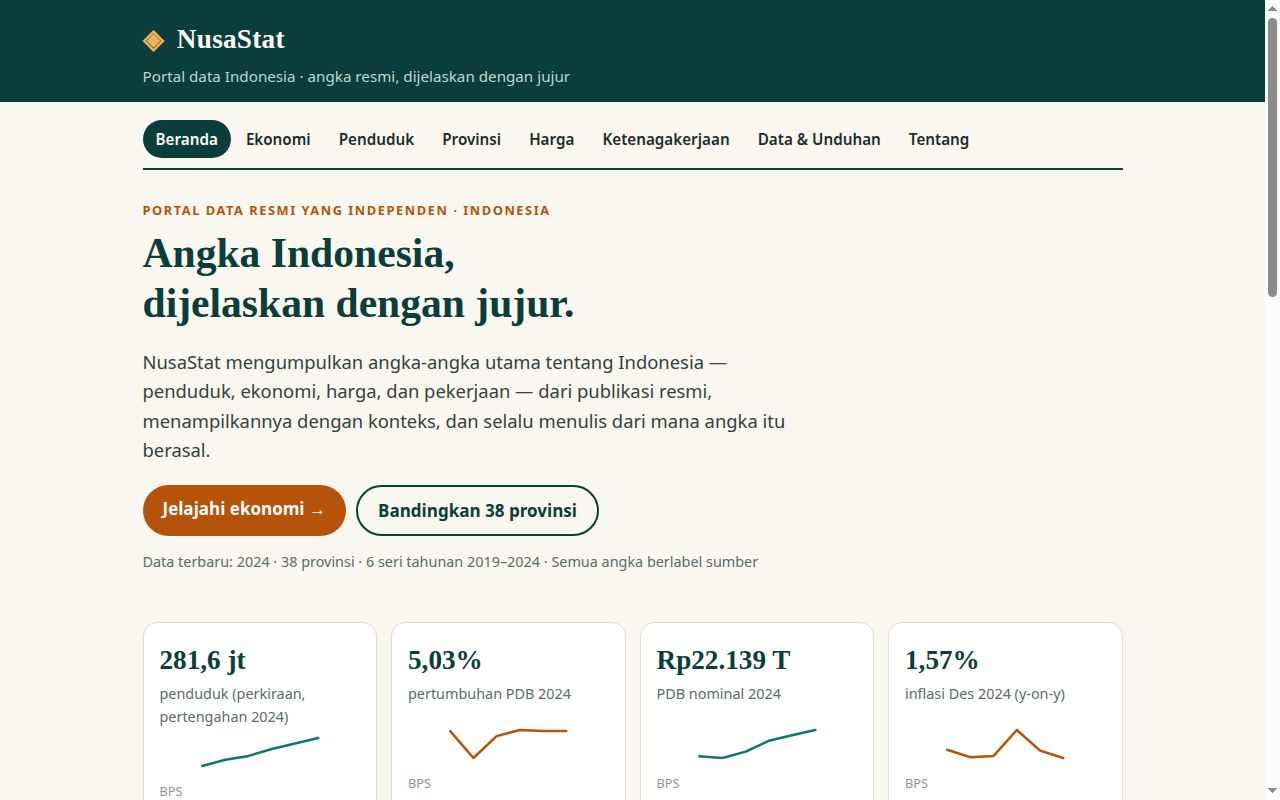
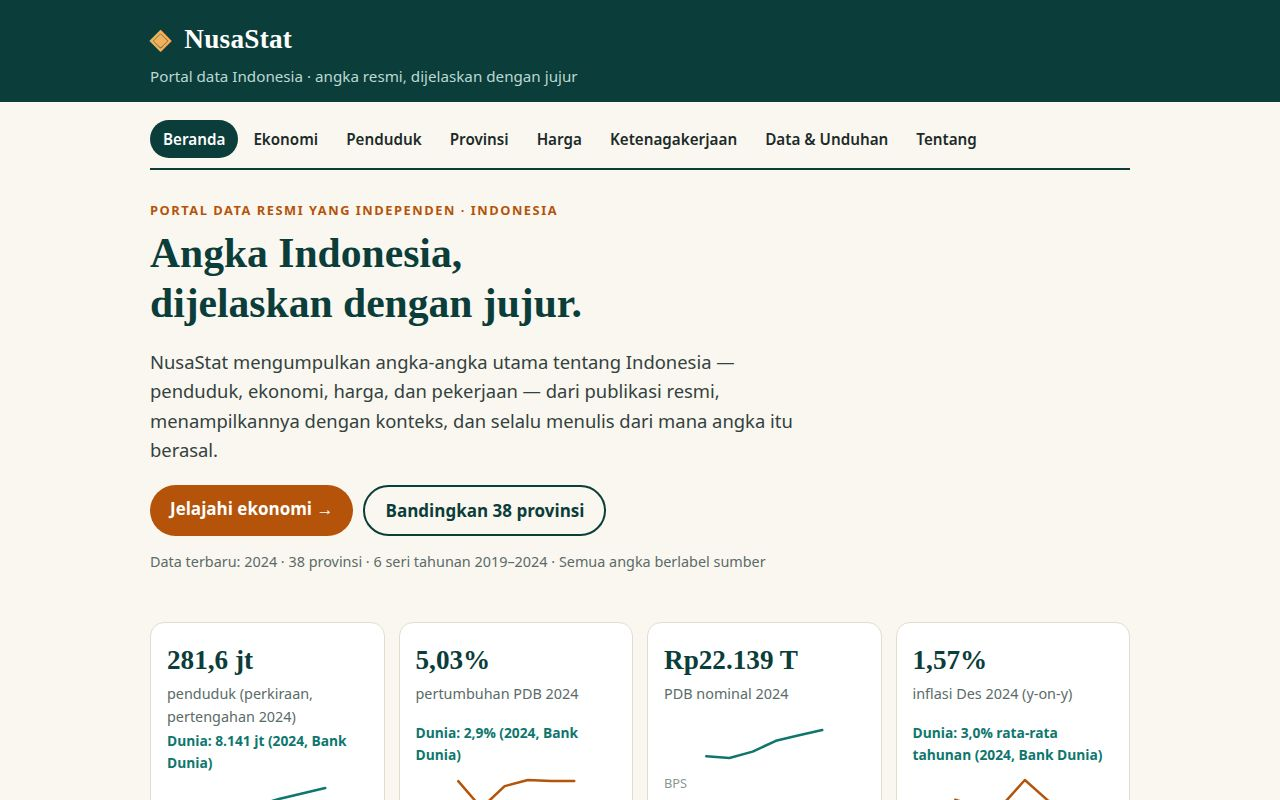
Revision: world comparison + province map + interpretation (round-1 push)

diff --git a/app/views.js b/app/views.js
@@ -7,6 +7,8 @@ import {
   PROVINCES, density, RELEASES, SOURCES,
 } from './data.js';
 import { barChart, lineChart, hbarChart, sparkline } from './charts.js';
+import { WORLD_LINES, peerTable } from './compare.js';
+import { provinceMapSVG, mapLegend } from './map.js';
 
 const esc = (s) => String(s).replace(/[&<>"']/g, (c) => `&#${c.charCodeAt(0)};`);
 const fmtID = (n) => String(n).replace('.', ',');
@@ -34,7 +36,8 @@ function kpiCards() {
   return `<section class="kpi-grid" aria-label="Indikator utama 2024">${HEADLINE_2024.map((k) => {
     const series = SERIES[k.key];
     const spark = series ? sparkline(series.values, k.key === 'gdpGrowth' || k.key === 'inflation' ? '#b45309' : '#0f766e') : '';
-    return `<article class="kpi"><div class="kpi-value">${esc(k.value)}</div><div class="kpi-label">${esc(k.sub)}</div>${spark}<div class="kpi-src">${esc(k.source)}</div></article>`;
+    const world = WORLD_LINES[k.key] ? `<div class="world-line">${esc(WORLD_LINES[k.key])}</div>` : '';
+    return `<article class="kpi"><div class="kpi-value">${esc(k.value)}</div><div class="kpi-label">${esc(k.sub)}</div>${world}${spark}<div class="kpi-src">${esc(k.source)}</div></article>`;
   }).join('')}</section>`;
 }
 
@@ -49,11 +52,21 @@ export function home() {
   <p class="hero-meta">Data terbaru: 2024 &middot; 38 provinsi &middot; 6 seri tahunan 2019&ndash;2024 &middot; Semua angka berlabel sumber</p>
 </section>
 ${kpiCards()}
+<section class="panel insight">
+  <h2>Apa kata data</h2>
+  <p>Angka nasional memang membaik — ekonomi tumbuh di atas 5%, inflasi kembali di bawah 2%, dan pengangguran turun tiap tahun sejak 2020 — tapi satu angka untuk seluruh Indonesia menutupi jarak antar-daerah: hampir seperlima penduduk tinggal di satu provinsi saja, Jawa Barat (sekitar 50 juta jiwa), sementara kepadatan Jakarta lebih dari seribu kali lipat Papua. Karena itu tren beberapa tahun lebih penting daripada satu tahun saja: pertumbuhan yang bertahan, harga yang kenaikannya melambat, dan kemiskinan yang turun perlahan menunjukkan arah yang membaik — meski titik awalnya berbeda-beda di tiap provinsi dan tiap kelompok masyarakat.</p>
+</section>
+<section class="panel">
+  <h2>Bandingkan dengan negara sebanding</h2>
+  <p>Indonesia melawan tetangga Asia Tenggara dan rata-rata dunia — semua angka tahun 2024 dari Bank Dunia, supaya sebanding. PDB per kapita Indonesia ($4.925) berada di atas Vietnam ($4.717) dan Filipina ($3.985), tapi masih di bawah Thailand ($7.387) dan Malaysia ($11.874); harapan hidup 71,3 tahun masih di bawah rata-rata dunia 73,5 tahun.</p>
+  ${peerTable()}
+</section>
 <section class="two-col">
   <div>
     <h2>Pertumbuhan ekonomi 2019&ndash;2024</h2>
     ${barChart({ labels: YEARS.map(String), values: SERIES.gdpGrowth.values, unit: '%' })}
     ${sourceNote(SERIES.gdpGrowth.note)}
+    <p class="chart-note">Cara membaca: pertumbuhan dihitung dari PDB harga konstan 2010 — membandingkan volume produksi antar-tahun, bukan harga. Batang 2020 yang negatif adalah kontraksi pandemi COVID-19.</p>
     <p><a href="#/ekonomi">Lihat semua seri ekonomi &rarr;</a></p>
   </div>
   <div>
@@ -81,6 +94,13 @@ export function economy(state) {
   const opts = Object.entries(SERIES).filter(([k]) => ['gdpGrowth', 'gdpNominal', 'inflation', 'unemployment', 'poverty'].includes(k))
     .map(([k, v]) => `<option value="${k}"${k === key ? ' selected' : ''}>${esc(v.label)} (${esc(v.unit)})</option>`).join('');
   const table = `<table class="data-table"><thead><tr><th>Tahun</th><th>${esc(s.label)} (${esc(s.unit)})</th></tr></thead><tbody>${YEARS.map((y, i) => `<tr><td>${y}</td><td>${fmtID(s.values[i])}</td></tr>`).join('')}</tbody></table>`;
+  const explain = {
+    gdpGrowth: 'Cara membaca: PDB harga konstan 2010 — membandingkan volume produksi antar-tahun, bukan harga. Perubahan harga (inflasi) sudah dikeluarkan dari angka ini.',
+    gdpNominal: 'Cara membaca: PDB atas dasar harga berlaku — memakai harga tahun berjalan, jadi angkanya naik bila harga naik walau volume tetap. Bandingkan dengan pertumbuhan (harga konstan) untuk melihat volume.',
+    inflation: 'Cara membaca: inflasi y-on-y Desember — harga Desember dibanding Desember tahun sebelumnya. IHK (Indeks Harga Konsumen) mengukur rata-rata harga barang dan jasa yang dibeli rumah tangga.',
+    unemployment: 'Cara membaca: TPT = penganggur dibagi angkatan kerja (yang bekerja ditambah yang mencari kerja), diukur tiap Agustus lewat Sakernas. Yang tidak mencari kerja tidak dihitung sebagai penganggur.',
+    poverty: 'Cara membaca: persentase penduduk dengan pengeluaran di bawah garis kemiskinan nasional, diukur tiap Maret dan September lewat Susenas. Garisnya berbeda dari garis kemiskinan Bank Dunia ($2,15/hari).',
+  }[key] || '';
   const sectors = hbarChart({ items: SECTORS.map((x) => ({ name: x.name, value: x.share })), unit: '%' });
   return `${nav('#/ekonomi')}
 <h1>Ekonomi</h1>
@@ -99,6 +119,7 @@ export function economy(state) {
   <h2>${esc(s.label)} <span class="muted">(${esc(s.unit)})</span></h2>
   ${chart}
   ${sourceNote(s.note)}
+  <p class="chart-note">${esc(explain)}</p>
   <details><summary>Lihat sebagai tabel</summary>${table}</details>
 </section>
 <section class="panel">
@@ -129,6 +150,7 @@ export function people(state) {
   <h2>Jumlah penduduk 2019&ndash;2024</h2>
   ${pop}
   ${sourceNote(SERIES.population.note)}
+  <p class="chart-note">Cara membaca: penduduk pertengahan tahun di seluruh Indonesia; angka 2020 berasal dari Sensus Penduduk, tahun lain dari proyeksi antar-sensus BPS. Bank Dunia mencatat 283,5 juta untuk 2024 — sedikit di atas angka BPS karena perbedaan metode proyeksi.</p>
   <p>Antara Sensus 2010 (237,6 juta) dan Sensus 2020 (270,2 juta), penduduk bertambah rata-rata sekitar 1,25% per tahun. Laju itu terus melambat: proyeksi resmi memperkirakan penduduk menembus 300 juta sekitar 2034.</p>
 </section>
 <section class="two-col">
@@ -172,6 +194,12 @@ export function provinces(state) {
   return `${nav('#/provinsi')}
 <h1>Provinsi</h1>
 <p class="lede">38 provinsi, dari Aceh sampai Papua Selatan. Cari, urutkan, dan klik sebuah provinsi untuk melihat detailnya.</p>
+<section class="panel map-panel">
+  <h2>Peta penduduk 2024</h2>
+  <div class="map-wrap">${provinceMapSVG(state.pilih)}</div>
+  ${mapLegend()}
+  <p class="chart-note">Cara membaca: warna menunjukkan jumlah penduduk 2024 — makin gelap, makin banyak penduduk. Klik provinsi mana pun untuk melihat detailnya di bawah peta. Peta ini skematik: bentuk provinsi disederhanakan dari letak geografisnya, bukan batas resmi.</p>
+</section>
 <div class="controls">
   <label>Cari provinsi: <input id="prov-search" type="search" placeholder="mis. Jawa Barat" value="${esc(state.cari || '')}"></label>
   <label>Urutkan:
@@ -199,12 +227,14 @@ export function prices(state) {
   <h2>Inflasi tahunan 2019&ndash;2024</h2>
   ${inf}
   ${sourceNote(SERIES.inflation.note)}
+  <p class="chart-note">Cara membaca: inflasi y-on-y — harga Desember dibanding Desember tahun sebelumnya. IHK mengukur rata-rata harga barang dan jasa yang dibeli rumah tangga; inflasi inti (di luar harga bergejolak dan harga yang diatur pemerintah) tidak termasuk dalam grafik ini.</p>
   <p>Bank Indonesia menargetkan inflasi di kisaran 2,5% &plusmn; 1% (2024). Inflasi Desember 2024 sebesar 1,57% berada di bawah batas bawah sasaran — harga-harga naik lebih lambat dari target.</p>
 </section>
 <section class="panel">
   <h2>Inflasi menurut kelompok, Desember 2024</h2>
   ${groups}
   ${sourceNote('Inflasi y-on-y tiap kelompok pengeluaran, sekitar, dibulatkan ke 0,1%. Sumber: BPS.')}
+  <p class="chart-note">Cara membaca: perubahan harga rata-rata tiap kelompok selama setahun; kelompok dengan bobot belanja besar (makanan) lebih memengaruhi inflasi umum daripada kelompok kecil. Kelompok informasi dan komunikasi turun karena tarif komunikasi lebih murah.</p>
   <p>Perawatan pribadi naik paling cepat (sekitar 5%), sementara tarif informasi dan komunikasi justru turun sedikit — satu-satunya kelompok yang deflasi.</p>
 </section>
 <section class="panel">
@@ -226,6 +256,7 @@ export function labour() {
   <h2>Tingkat Pengangguran Terbuka 2019&ndash;2024</h2>
   ${unemp}
   ${sourceNote(SERIES.unemployment.note)}
+  <p class="chart-note">Cara membaca: TPT = penganggur dibagi angkatan kerja, diukur tiap Agustus (Sakernas). &ldquo;Penganggur&rdquo; berarti tidak bekerja dan sedang mencari kerja — orang yang tidak mencari kerja (misalnya pelajar penuh waktu) tidak dihitung.</p>
   <p>Pengangguran melonjak ke 7,07% pada Agustus 2020 saat pandemi, lalu turun tiap tahun hingga 4,91% pada Agustus 2024 — level terendah dalam seri ini.</p>
 </section>
 <section class="two-col">
@@ -297,6 +328,14 @@ export function about() {
     <li>Situs ini statis dan bekerja luring: tidak ada data yang diambil dari internet saat dibuka, tidak ada pelacak, dan tidak ada data pengunjung yang dikirim ke mana pun.</li>
     <li>Angka diperbarui mengikuti rilis BPS; halaman ini terakhir diperbarui November 2026.</li>
   </ul>
+</section>
+<section class="panel">
+  <h2>Pertanyaan yang sering ditanyakan</h2>
+  <dl class="facts">
+    <dt>Dari mana datanya?</dt><dd>Angka utama dari rilis Badan Pusat Statistik (BPS). Angka perbandingan dengan negara lain dari Bank Dunia (World Development Indicators, 2024). Tiap angka menulis sumbernya di samping grafik atau tabel.</dd>
+    <dt>Seberapa baru datanya?</dt><dd>Angka utama memakai tahun acuan 2024; rilis terbaru yang dirujuk berasal dari November 2025. Perbandingan dunia memakai data 2024 — tahun terbaru yang tersedia untuk semua negara sekaligus.</dd>
+    <dt>Bisa dibandingkan dengan negara lain?</dt><dd>Bisa. Beranda punya tabel &ldquo;Bandingkan dengan negara sebanding&rdquo; (Malaysia, Thailand, Vietnam, Filipina, dan rata-rata dunia), dan tiap kartu indikator utama menulis nilai dunianya di samping nilai Indonesia.</dd>
+  </dl>
 </section>
 <section class="panel">
   <h2>Kontak &amp; koreksi</h2>

diff --git a/app/map.js b/app/map.js
@@ -1,0 +1,108 @@
+// SPDX-License-Identifier: MIT
+// NusaStat — peta skematik 38 provinsi (SVG digambar tangan, tanpa library,
+// tanpa file peta dari luar).
+//
+// Peta ini SKEMATIK: bentuk tiap provinsi disederhanakan dari letak
+// geografisnya (bukan batas resmi), supaya bisa diklik dan diwarnai menurut
+// penduduk. Posisi tiap provinsi mengikuti letak aslinya: Sumatera diagonal
+// barat laut–tenggara, Jawa memanjang di selatan, Kalimantan di tengah,
+// Sulawesi di timur tengah, Nusa Tenggara di selatan, Maluku di timur, dan
+// Papua di ujung timur. Label pulau ditulis di latar peta.
+// Warna: lima tingkat menurut penduduk 2024 (data.js) — makin gelap makin
+// banyak penduduk. Klik provinsi membuka detailnya (tautan hash yang sama
+// dengan yang dipakai tabel provinsi).
+
+import { PROVINCES } from './data.js';
+
+const esc = (s) => String(s).replace(/[&<>"']/g, (c) => `&#${c.charCodeAt(0)};`);
+
+// [nama, titik poligon "x,y x,y ...", label x, label y]
+// Koordinat dalam viewBox 1000 x 470.
+const SHAPES = [
+  ['Aceh', '62,48 108,38 118,72 96,104 66,92', 90, 74],
+  ['Sumatera Utara', '100,100 150,88 168,122 140,152 106,138', 134, 122, 'Sumut'],
+  ['Sumatera Barat', '108,140 140,154 150,186 122,200 104,172', 127, 172, 'Sumbar'],
+  ['Riau', '152,120 196,108 214,140 186,168 150,152', 183, 140],
+  ['Kepulauan Riau', '220,148 238,144 242,160 226,168', 231, 158, 'Kepri'],
+  ['Jambi', '150,190 190,178 206,204 176,224 148,212', 176, 202],
+  ['Sumatera Selatan', '190,206 236,196 258,226 232,258 192,246', 223, 228, 'Sumsel'],
+  ['Kep. Bangka Belitung', '262,230 280,226 284,242 266,248', 273, 238, 'Babel'],
+  ['Bengkulu', '122,202 148,214 156,244 132,256 116,228', 136, 230],
+  ['Lampung', '158,246 196,248 210,272 186,292 156,278', 183, 270],
+  ['Banten', '330,332 372,330 378,356 340,360', 354, 347],
+  ['DKI Jakarta', '382,330 396,328 398,340 384,342', 390, 337, 'DKI'],
+  ['Jawa Barat', '378,342 452,340 458,360 384,362', 418, 353],
+  ['Jawa Tengah', '458,332 530,330 534,360 460,362', 496, 348],
+  ['DI Yogyakarta', '500,362 516,360 518,374 502,376', 509, 369, 'DIY'],
+  ['Jawa Timur', '534,330 612,328 618,358 540,362', 576, 347],
+  ['Bali', '624,344 656,342 660,356 628,358', 642, 352],
+  ['Kalimantan Barat', '392,92 452,86 462,130 430,158 394,142', 427, 124, 'Kalbar'],
+  ['Kalimantan Tengah', '462,130 520,120 532,170 500,205 452,190 448,152', 492, 164, 'Kalteng'],
+  ['Kalimantan Selatan', '500,205 540,196 552,232 520,256 492,238', 522, 228, 'Kalsel'],
+  ['Kalimantan Timur', '520,118 566,110 578,152 556,192 532,172', 551, 152, 'Kaltim'],
+  ['Kalimantan Utara', '540,76 580,72 592,104 566,116 538,102', 565, 96, 'Kaltara'],
+  ['Sulawesi Utara', '668,92 716,86 726,112 692,124 664,112', 696, 108, 'Sulut'],
+  ['Gorontalo', '620,108 664,112 668,134 626,136', 644, 124],
+  ['Sulawesi Tengah', '626,136 668,134 672,176 640,200 612,176', 644, 168, 'Sulteng'],
+  ['Sulawesi Barat', '612,176 640,200 636,232 608,226', 623, 206, 'Sulbar'],
+  ['Sulawesi Selatan', '636,232 664,226 676,262 652,292 624,272', 650, 260, 'Sulsel'],
+  ['Sulawesi Tenggara', '676,262 700,252 712,282 690,300 664,282', 688, 276, 'Sultra'],
+  ['Nusa Tenggara Barat', '664,344 700,342 704,358 668,360', 684, 352, 'NTB'],
+  ['Nusa Tenggara Timur', '708,344 790,342 800,360 716,362', 754, 352, 'NTT'],
+  ['Maluku Utara', '730,150 762,146 768,176 738,182', 749, 166],
+  ['Maluku', '736,200 786,196 796,232 752,240 730,220', 762, 218],
+  ['Papua Barat Daya', '806,140 852,136 858,164 816,170', 832, 154, 'PBD'],
+  ['Papua Barat', '858,138 906,134 912,164 862,170', 885, 153],
+  ['Papua', '912,132 984,128 992,168 940,180 916,164', 951, 154],
+  ['Papua Tengah', '858,170 912,166 918,200 868,206', 884, 198],
+  ['Papua Pegunungan', '918,168 966,172 962,206 920,204', 943, 180, 'P. Peg.'],
+  ['Papua Selatan', '868,206 960,204 952,246 880,244', 914, 226],
+];
+
+// Siluet pulau (latar, bukan batas resmi) + label pulau.
+const ISLANDS = [
+  { points: '55,45 110,30 180,90 250,150 300,210 335,270 320,310 290,290 240,220 170,140 100,80', label: 'SUMATERA', x: 172, y: 50 },
+  { points: '330,330 620,325 640,350 620,370 350,375 325,355', label: 'JAWA', x: 470, y: 392 },
+  { points: '390,80 520,70 570,130 560,220 500,270 420,260 380,180 375,120', label: 'KALIMANTAN', x: 470, y: 60 },
+  { points: '610,90 700,80 730,130 690,160 700,220 720,290 690,310 660,240 630,190 600,140', label: 'SULAWESI', x: 668, y: 60 },
+  { points: '800,120 980,110 995,180 960,250 880,260 810,220 790,160', label: 'PAPUA', x: 890, y: 110 },
+];
+
+const TIERS = [
+  { min: 25, fill: '#0b3d3a', text: '#ffffff' },
+  { min: 10, fill: '#0f766e', text: '#ffffff' },
+  { min: 5, fill: '#2a9d8f', text: '#ffffff' },
+  { min: 2, fill: '#8ecdc2', text: '#1c2b2a' },
+  { min: 0, fill: '#d7ece8', text: '#1c2b2a' },
+];
+
+function tierFor(pop) {
+  return TIERS.find((t) => pop >= t.min) || TIERS[TIERS.length - 1];
+}
+
+export function provinceMapSVG(selectedName) {
+  const byName = new Map(PROVINCES.map((p) => [p.name, p]));
+  let s = `<svg viewBox="0 0 1000 470" role="img" aria-label="Peta skematik 38 provinsi Indonesia, diwarnai menurut jumlah penduduk" class="prov-map">`;
+  for (const is of ISLANDS) {
+    s += `<polygon points="${is.points}" class="island"/><text x="${is.x}" y="${is.y}" class="island-label" text-anchor="middle">${is.label}</text>`;
+  }
+  s += `<text x="730" y="330" class="island-label" text-anchor="middle">NUSA TENGGARA</text>`;
+  s += `<text x="760" y="130" class="island-label" text-anchor="middle">MALUKU</text>`;
+  for (const [name, points, lx, ly, short] of SHAPES) {
+    const p = byName.get(name);
+    if (!p) continue;
+    const t = tierFor(p.pop);
+    const sel = name === selectedName;
+    const href = `#/provinsi?pilih=${encodeURIComponent(name)}`;
+    s += `<a href="${href}" class="prov-link${sel ? ' selected' : ''}"><polygon points="${points}" fill="${t.fill}"${sel ? ' stroke="#b45309" stroke-width="4"' : ' stroke="#faf7f0" stroke-width="2"'}><title>${esc(name)} — sekitar ${esc(String(p.pop).replace('.', ','))} juta jiwa (2024)</title></polygon><text x="${lx}" y="${ly}" class="prov-label" fill="${t.text}" text-anchor="middle">${esc(short || name)}</text></a>`;
+  }
+  s += '</svg>';
+  return s;
+}
+
+export function mapLegend() {
+  return `<ul class="map-legend" aria-label="Legenda warna peta">${TIERS.map((t, i) => {
+    const label = i === 0 ? '25 jt ke atas' : i === 1 ? '10–25 jt' : i === 2 ? '5–10 jt' : i === 3 ? '2–5 jt' : 'di bawah 2 jt';
+    return `<li><span class="swatch" style="background:${t.fill}"></span>${label}</li>`;
+  }).join('')}</ul>`;
+}

diff --git a/app/compare.js b/app/compare.js
@@ -1,0 +1,84 @@
+// SPDX-License-Identifier: MIT
+// NusaStat — perbandingan Indonesia dengan dunia dan negara sebanding.
+// Semua angka di bawah ini diambil dari World Bank, World Development
+// Indicators (WDI), diakses 26 November 2026 lewat API publik tanpa kunci.
+// Tahun acuan: 2024 untuk semua angka, agar bisa dibandingkan apel-dengan-apel.
+// Angka dibulatkan ke 1 desimal; nilai mentah tersimpan di komentar tiap baris.
+//
+// PERHATIAN VINTAGE (jangan dicampur diam-diam):
+// - Penduduk Indonesia menurut Bank Dunia 2024 = 283,5 juta, sedangkan angka
+//   BPS yang dipakai kartu KPI situs ini = 281,6 juta (2024). Selisihnya dari
+//   perbedaan metode (Bank Dunia memakai estimasi PBB; BPS memakai proyeksi
+//   antar-sensus). Tabel perbandingan memakai angka Bank Dunia untuk SEMUA
+//   negara supaya sebanding; footnote di bawah tabel menjelaskan selisihnya.
+// - Inflasi Bank Dunia = rata-rata tahunan (CPI tahunan), sedangkan angka BPS
+//   di situs ini = Desember terhadap Desember tahun sebelumnya (1,57% untuk
+//   2024). Keduanya benar, ukurannya berbeda — label di tabel menuliskan itu.
+// - Pengangguran Bank Dunia = estimasi model ILO; TPT BPS (4,91% Agu 2024)
+//   memakai Sakernas. Garis kemiskinan Bank Dunia = $2,15/hari (paritas daya
+//   beli 2017); garis BPS = garis kemiskinan nasional.
+
+const fmtID = (n) => String(n).replace('.', ',');
+
+// Nilai "Dunia" untuk kartu KPI di beranda. Kunci = kunci HEADLINE_2024.
+// Hanya indikator yang punya agregat dunia dengan definisi yang bisa
+// dijelaskan dalam satu baris yang diberi nilai dunia; sisanya null.
+export const WORLD_LINES = {
+  population: 'Dunia: 8.141 jt (2024, Bank Dunia)',
+  gdpGrowth: 'Dunia: 2,9% (2024, Bank Dunia)',
+  inflation: 'Dunia: 3,0% rata-rata tahunan (2024, Bank Dunia)',
+  unemployment: 'Dunia: 4,8% model ILO (2024, Bank Dunia)',
+  poverty: 'Dunia: 10,1% garis $2,15/hari (2024, Bank Dunia)',
+  gdpNominal: null,
+  hdi: null,
+  gini: null,
+};
+
+// Strip "Bandingkan dengan negara sebanding": Malaysia, Thailand, Vietnam,
+// Filipina + Dunia. Semua nilai 2024, Bank Dunia WDI.
+// Nilai mentah (untuk audit): PDB/kapita USD — IDN 4925,4; MYS 11874,4;
+// THA 7386,6; VNM 4716,7; PHL 3985,3; WLD 13717,1.
+// Populasi jiwa — IDN 283487931; MYS 35557673; THA 71668011; VNM 100987686;
+// PHL 115843670; WLD 8140897523.
+// Harapan hidup tahun — IDN 71,29; MYS 76,82; THA 76,56; VNM 74,74;
+// PHL 69,95; WLD 73,48.
+// Inflasi % rata-rata tahunan — IDN 2,18; MYS 1,83; THA 0,40; VNM 3,62;
+// PHL 3,21; WLD 3,01.
+// Pertumbuhan PDB % — IDN 5,03; MYS 5,11; THA 2,95; VNM 7,04; PHL 5,71;
+// WLD 2,90.
+export const PEER_ROWS = [
+  {
+    label: 'PDB per kapita',
+    unit: 'US$',
+    idn: '4.925', mys: '11.874', tha: '7.387', vnm: '4.717', phl: '3.985', wld: '13.717',
+  },
+  {
+    label: 'Penduduk',
+    unit: 'juta jiwa',
+    idn: '283,5', mys: '35,6', tha: '71,7', vnm: '101,0', phl: '115,8', wld: '8.141',
+  },
+  {
+    label: 'Harapan hidup',
+    unit: 'tahun',
+    idn: '71,3', mys: '76,8', tha: '76,6', vnm: '74,7', phl: '69,9', wld: '73,5',
+  },
+  {
+    label: 'Inflasi (rata-rata tahunan)',
+    unit: '%',
+    idn: '2,2', mys: '1,8', tha: '0,4', vnm: '3,6', phl: '3,2', wld: '3,0',
+  },
+  {
+    label: 'Pertumbuhan PDB',
+    unit: '%',
+    idn: '5,0', mys: '5,1', tha: '3,0', vnm: '7,0', phl: '5,7', wld: '2,9',
+  },
+];
+
+const esc = (s) => String(s).replace(/[&<>"']/g, (c) => `&#${c.charCodeAt(0)};`);
+
+export function peerTable() {
+  const head = '<tr><th>Indikator (2024)</th><th>Indonesia</th><th>Malaysia</th><th>Thailand</th><th>Vietnam</th><th>Filipina</th><th>Dunia</th></tr>';
+  const rows = PEER_ROWS.map((r) => `<tr><td>${esc(r.label)} (${esc(r.unit)})</td><td><strong>${esc(r.idn)}</strong></td><td>${esc(r.mys)}</td><td>${esc(r.tha)}</td><td>${esc(r.vnm)}</td><td>${esc(r.phl)}</td><td>${esc(r.wld)}</td></tr>`).join('');
+  return `<div class="table-scroll"><table class="data-table peer-table"><thead>${head}</thead><tbody>${rows}</tbody></table></div>
+<p class="source">Sumber: Bank Dunia, World Development Indicators, 2024 (diakses 26 Nov 2026). Semua angka 2024, dibulatkan ke 1 desimal. Inflasi di sini adalah rata-rata tahunan — berbeda dari angka BPS 1,57% yang mengukur Desember terhadap Desember tahun sebelumnya. Penduduk Indonesia menurut Bank Dunia 283,5 juta, sedikit di atas angka BPS 281,6 juta karena perbedaan metode proyeksi; semua angka tabel ini memakai Bank Dunia agar sebanding antar-negara.</p>`;
+}

diff --git a/app/style.css b/app/style.css
@@ -193,3 +193,66 @@ summary { cursor: pointer; font-weight: 700; color: var(--teal-dark); }
   .facts dd { margin-bottom: 8px; }
   .data-table { display: block; overflow-x: auto; }
 }
+
+/* Revisi: perbandingan dunia, peta provinsi, penjelasan grafik. */
+.world-line {
+  font-size: 0.86rem;
+  font-weight: 700;
+  color: var(--teal);
+  margin: 2px 0 4px;
+}
+.chart-note {
+  font-size: 0.92rem;
+  color: #33413f;
+  background: #f0ebe0;
+  border-left: 4px solid var(--teal);
+  padding: 8px 12px;
+  margin: 10px 0;
+}
+.insight p { max-width: 68ch; }
+.table-scroll { overflow-x: auto; }
+.peer-table td:first-child { font-weight: 600; }
+.peer-table td:nth-child(2) { background: var(--amber-soft); }
+
+.map-wrap { margin: 6px 0 4px; }
+.prov-map { width: 100%; height: auto; display: block; }
+.prov-map .island { fill: #eef4f2; stroke: none; }
+.prov-map .island-label {
+  font-size: 13px;
+  font-weight: 700;
+  letter-spacing: 0.14em;
+  fill: #9db8b2;
+  font-family: system-ui, sans-serif;
+}
+.prov-map .prov-label {
+  font-size: 10px;
+  font-weight: 600;
+  font-family: system-ui, sans-serif;
+  pointer-events: none;
+}
+.prov-map .prov-link { cursor: pointer; }
+.prov-map .prov-link:hover polygon { stroke: var(--amber); stroke-width: 3; }
+.prov-map .prov-link:focus { outline: none; }
+.prov-map .prov-link:focus polygon { stroke: var(--amber); stroke-width: 3; }
+.map-legend {
+  list-style: none;
+  display: flex;
+  flex-wrap: wrap;
+  gap: 6px 18px;
+  padding: 0;
+  margin: 8px 0;
+  font-size: 0.88rem;
+  color: var(--muted);
+}
+.map-legend .swatch {
+  display: inline-block;
+  width: 14px;
+  height: 14px;
+  border-radius: 3px;
+  margin-right: 6px;
+  vertical-align: -2px;
+}
+@media (max-width: 760px) {
+  .prov-map .prov-label { font-size: 11px; }
+  .prov-map .island-label { font-size: 12px; }
+}

diff --git a/app/data.js b/app/data.js
@@ -156,6 +156,7 @@ export const RELEASES = [
 
 export const SOURCES = [
   { name: 'Badan Pusat Statistik (BPS)', url: 'https://www.bps.go.id', what: 'Sensus Penduduk 2020, proyeksi penduduk, PDB, IHK, Sakernas, Susenas, IPM.' },
+  { name: 'Bank Dunia (World Bank)', url: 'https://data.worldbank.org', what: 'World Development Indicators 2024: PDB per kapita, penduduk, harapan hidup, inflasi, pertumbuhan PDB, pengangguran, kemiskinan — dipakai untuk semua perbandingan Indonesia vs dunia dan negara sebanding.' },
   { name: 'Bank Indonesia', url: 'https://www.bi.go.id', what: 'Data moneter dan sistem pembayaran (rujukan silang inflasi).' },
   { name: 'Kementerian Keuangan', url: 'https://www.kemenkeu.go.id', what: 'APBN dan asumsi makro (rujukan silang PDB).' },
 ];
